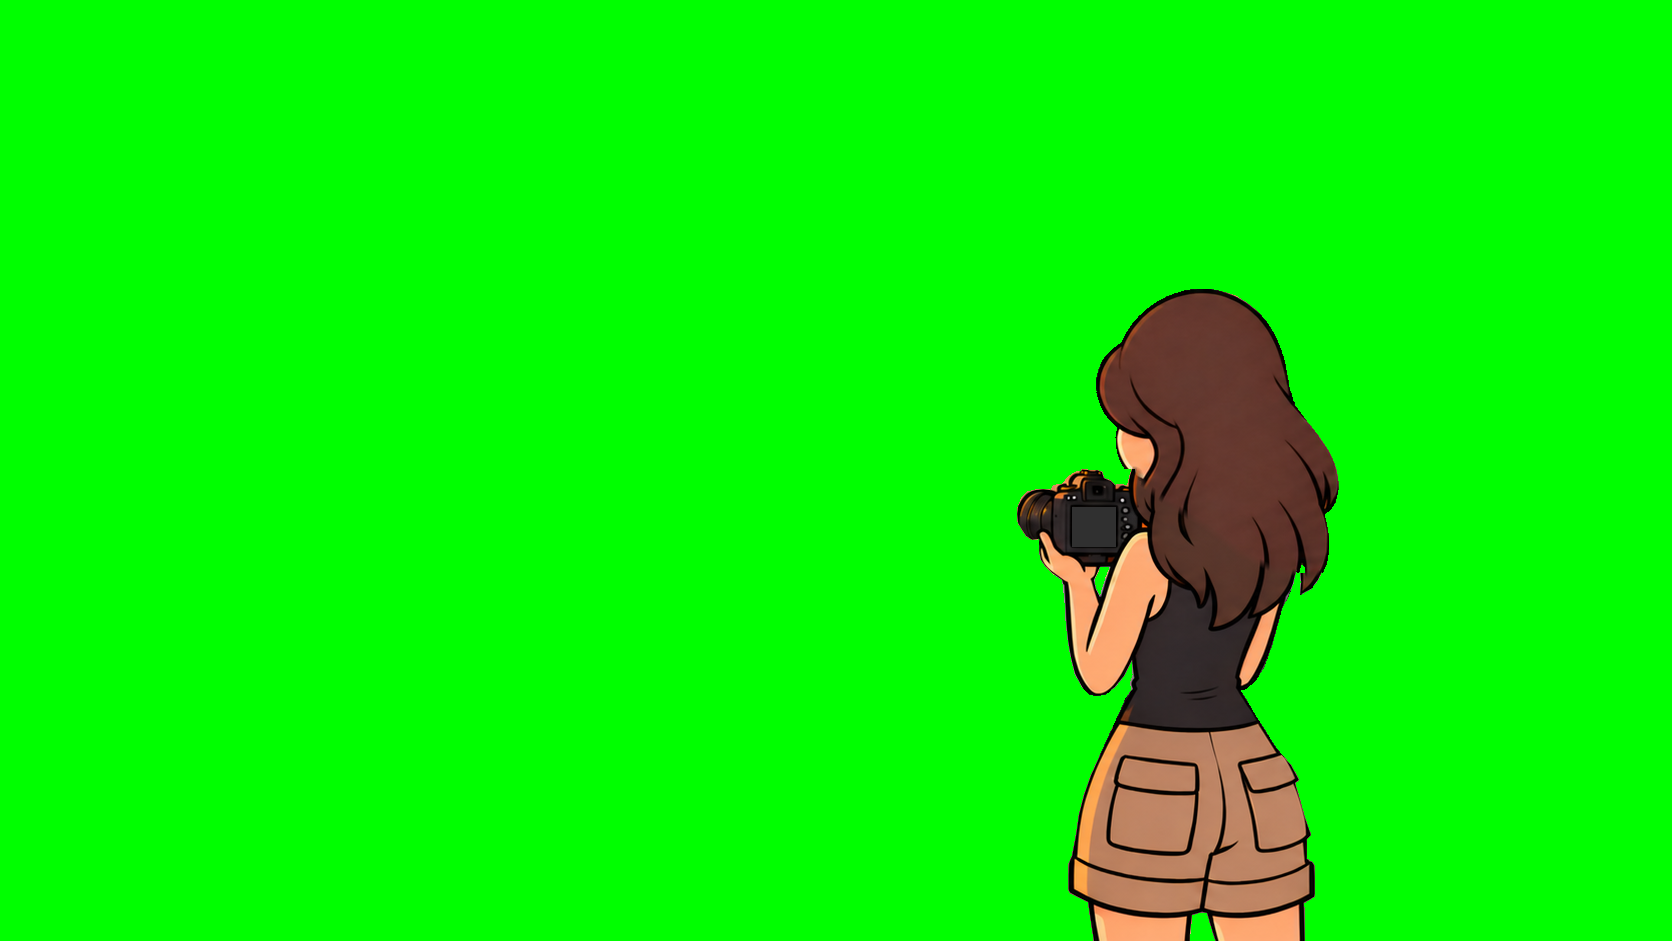
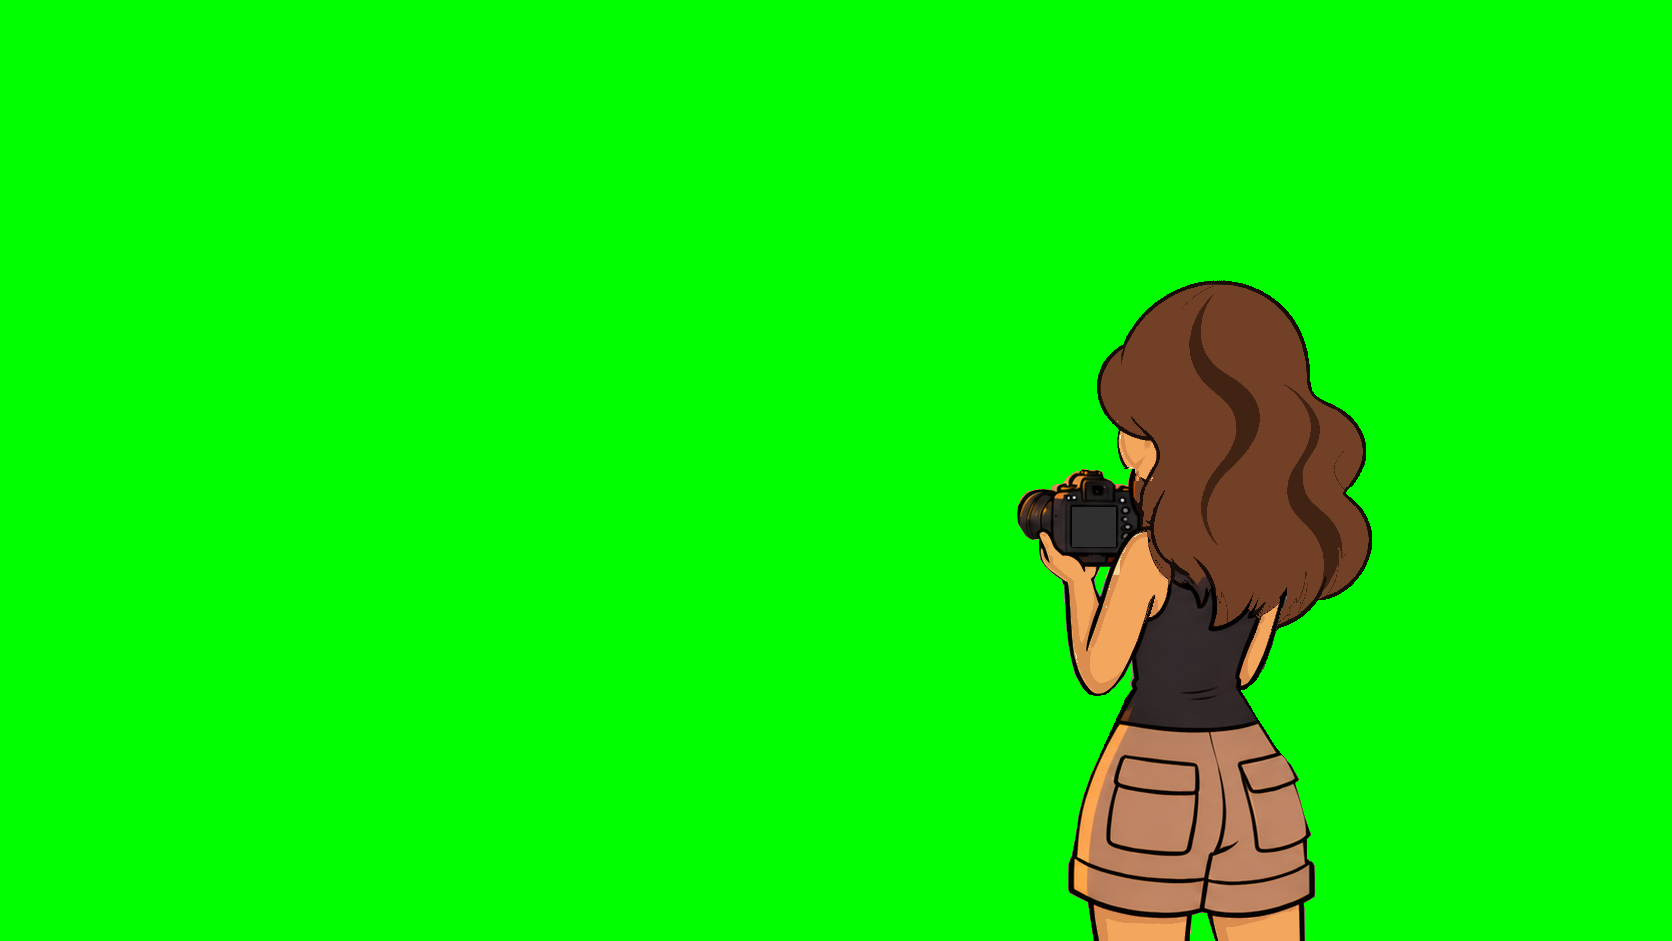
QC 020 round 3b: Rachel restyled to M01 and presenter mouths approved; scene rebuilt
Claude-Session: https://claude.ai/code/session_01D6nkZhWmbqsKut42E8j8f3

Changed region(s): [[0.622, 0.2774, 0.8397, 0.7396], [0.6531, 0.9554, 0.7775, 1.0]]

diff --git a/tasks/020-film-scene.md b/tasks/020-film-scene.md
@@ -1,6 +1,6 @@
 ---
 id: 020-film-scene
-status: changes-requested            # draft | open | delivered | changes-requested | approved
+status: approved                     # draft | open | delivered | changes-requested | approved
 frames: many              # see the lists below
 grid: separate images     # one image per file, ALL the same size as 020_scene.png and registered to it
 references:
@@ -123,3 +123,10 @@ Lip-flap is done in code by swapping mouth frames, so every held pose needs a cl
 - `020_M_3_closed.png`: M_3 with his mouth closed in a smile.
 - `020_M_1_mid.png`: M_1 with his mouth half open (a third mouth shape for lip-sync).
 Higgsfield prompts will say "talking animatedly". If a clip's mouth looks wrong, Wren overlays the drawn mouth frames instead.
+
+### QC round 3b (2026-11-20, Wren): APPROVED
+- **Rachel (4 files):** the silhouettes are identical to round 3 (0 px mask difference). The hair shadow is now narrow strands, all her skin is M01's warm tan, and K1's eyes are outlined, almost touching, with the C nose overlapping. No glasses.
+- **Presenter:** M_1_mid, M_2_closed and M_3_closed change only the mouth (about 40×30 px), so all three poses now lip-flap.
+- `approved/` is updated; the old Rachel files are in `pre-round3/`. `approved/020_scene.png` is rebuilt (plate + W_1 + M_1 + R_A1).
+- **Talking:** cycle M_x ↔ M_x_closed (+ M_1_mid in M_1) at about 4–7 swaps a second, with pauses; random blinks in M_1.
+- Next: Higgsfield, clip 1 first (M_1 → M_2, 4.5 credits), after the user's OK.
